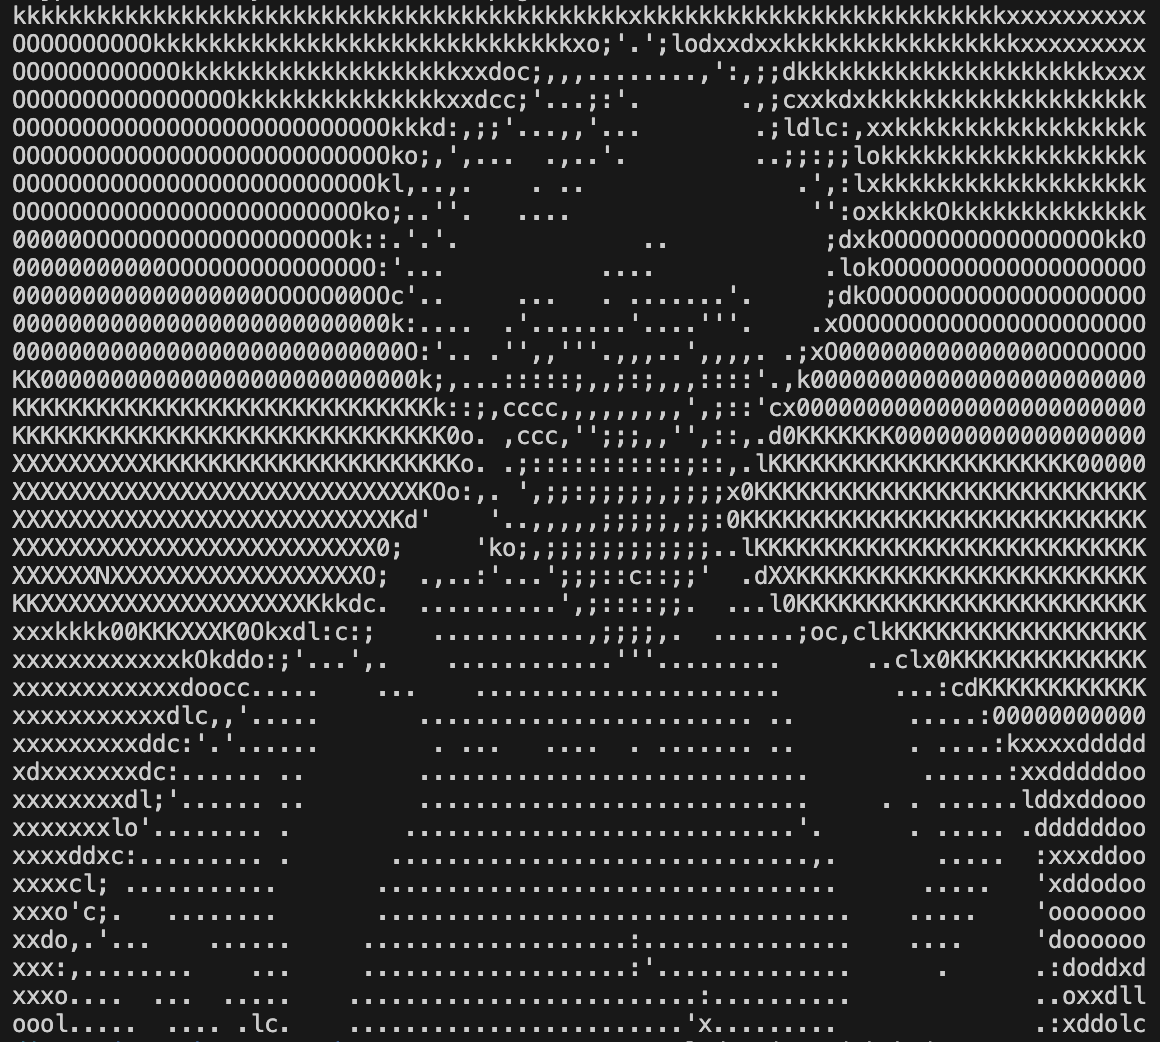
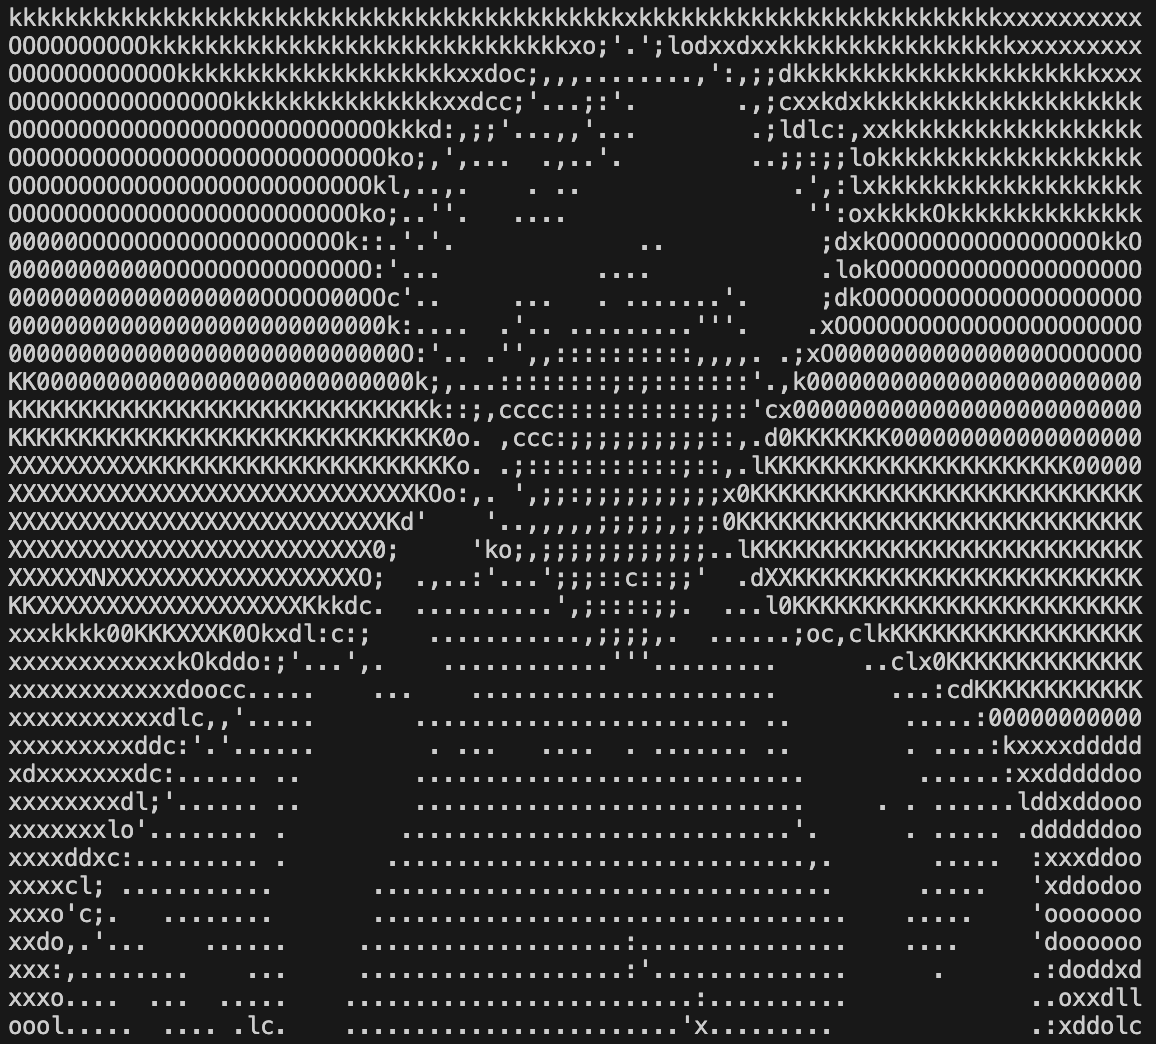
final check

diff --git a/index.md b/index.md
@@ -8,9 +8,9 @@ permalink: /
   <div class="about-content">
     <p>Hi I'm Divyanshu. I'm a founding engineer at Tensorfuse, a YC-backed startup building infrastructure for scalable ML. I am primarily a cloud engineer with expertise in deploying with AWS Cloudformation. I also do some backend engineering.</p>
 
-    <p>I am a computer science graduate from IIT Roorkee. I have experiency in developing mobile apps using flutter and have also some knowledge in classic cryptography</p>
+    <p>I am a computer science graduate from IIT Roorkee. I have some experience in developing mobile apps using flutter and have also some knowledge in classic cryptography</p>
 
-    <p>In my free time I love solving puzzles, playing video games and watching the shows my friends recommend me.</p>
+    <p>In my free time I love solving puzzles, playing video games and watching the shows that my friends recommend to me.</p>
 
     <div class="about-image-container">
         <div class="about-image">

diff --git a/blogs.md b/blogs.md
@@ -1,0 +1,7 @@
+---
+layout: home
+title: Blog
+permalink: /blog/
+---
+
+\* cricket noises *
